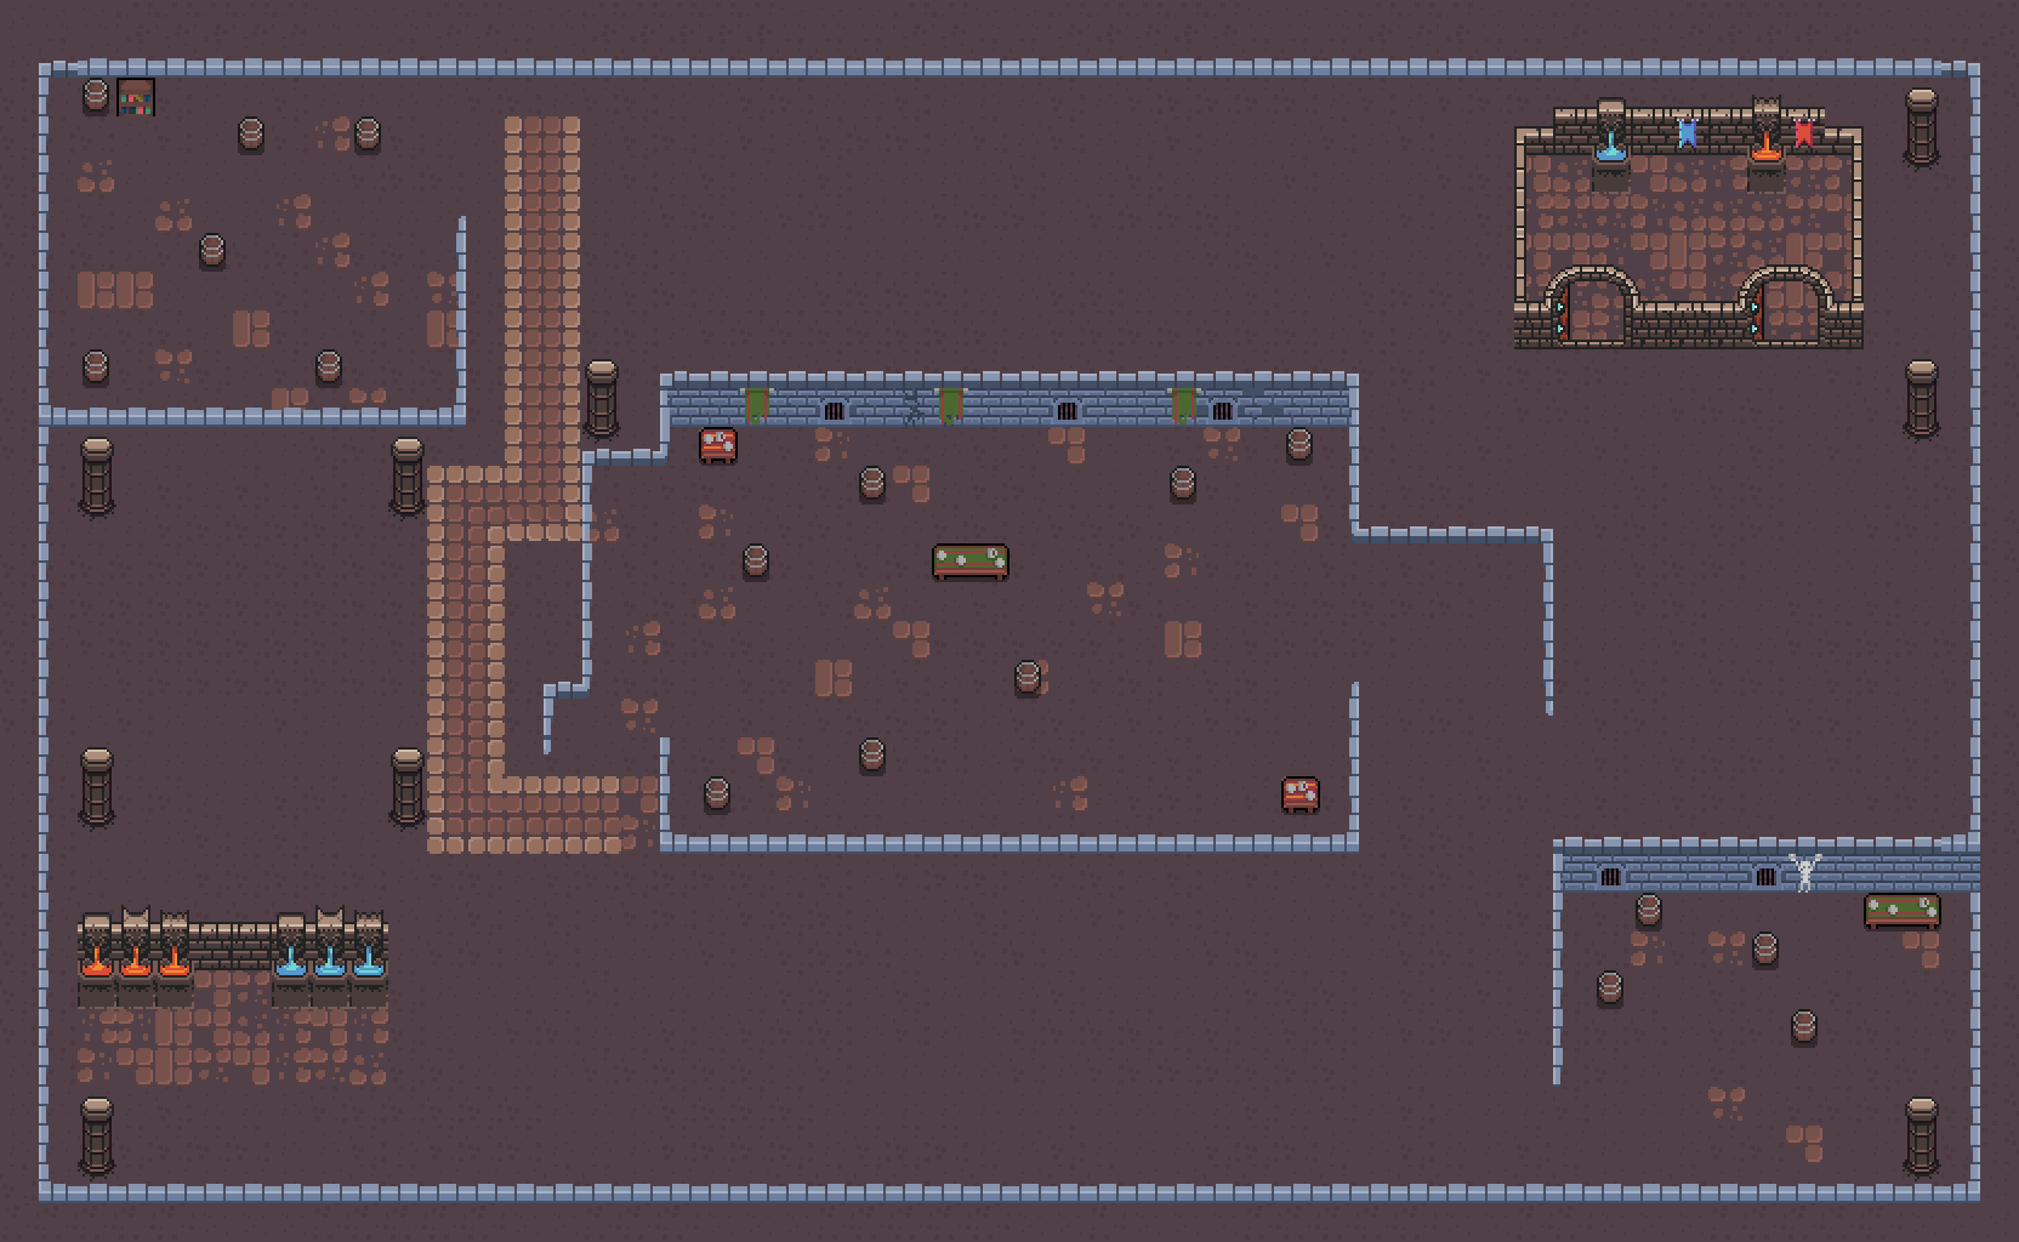
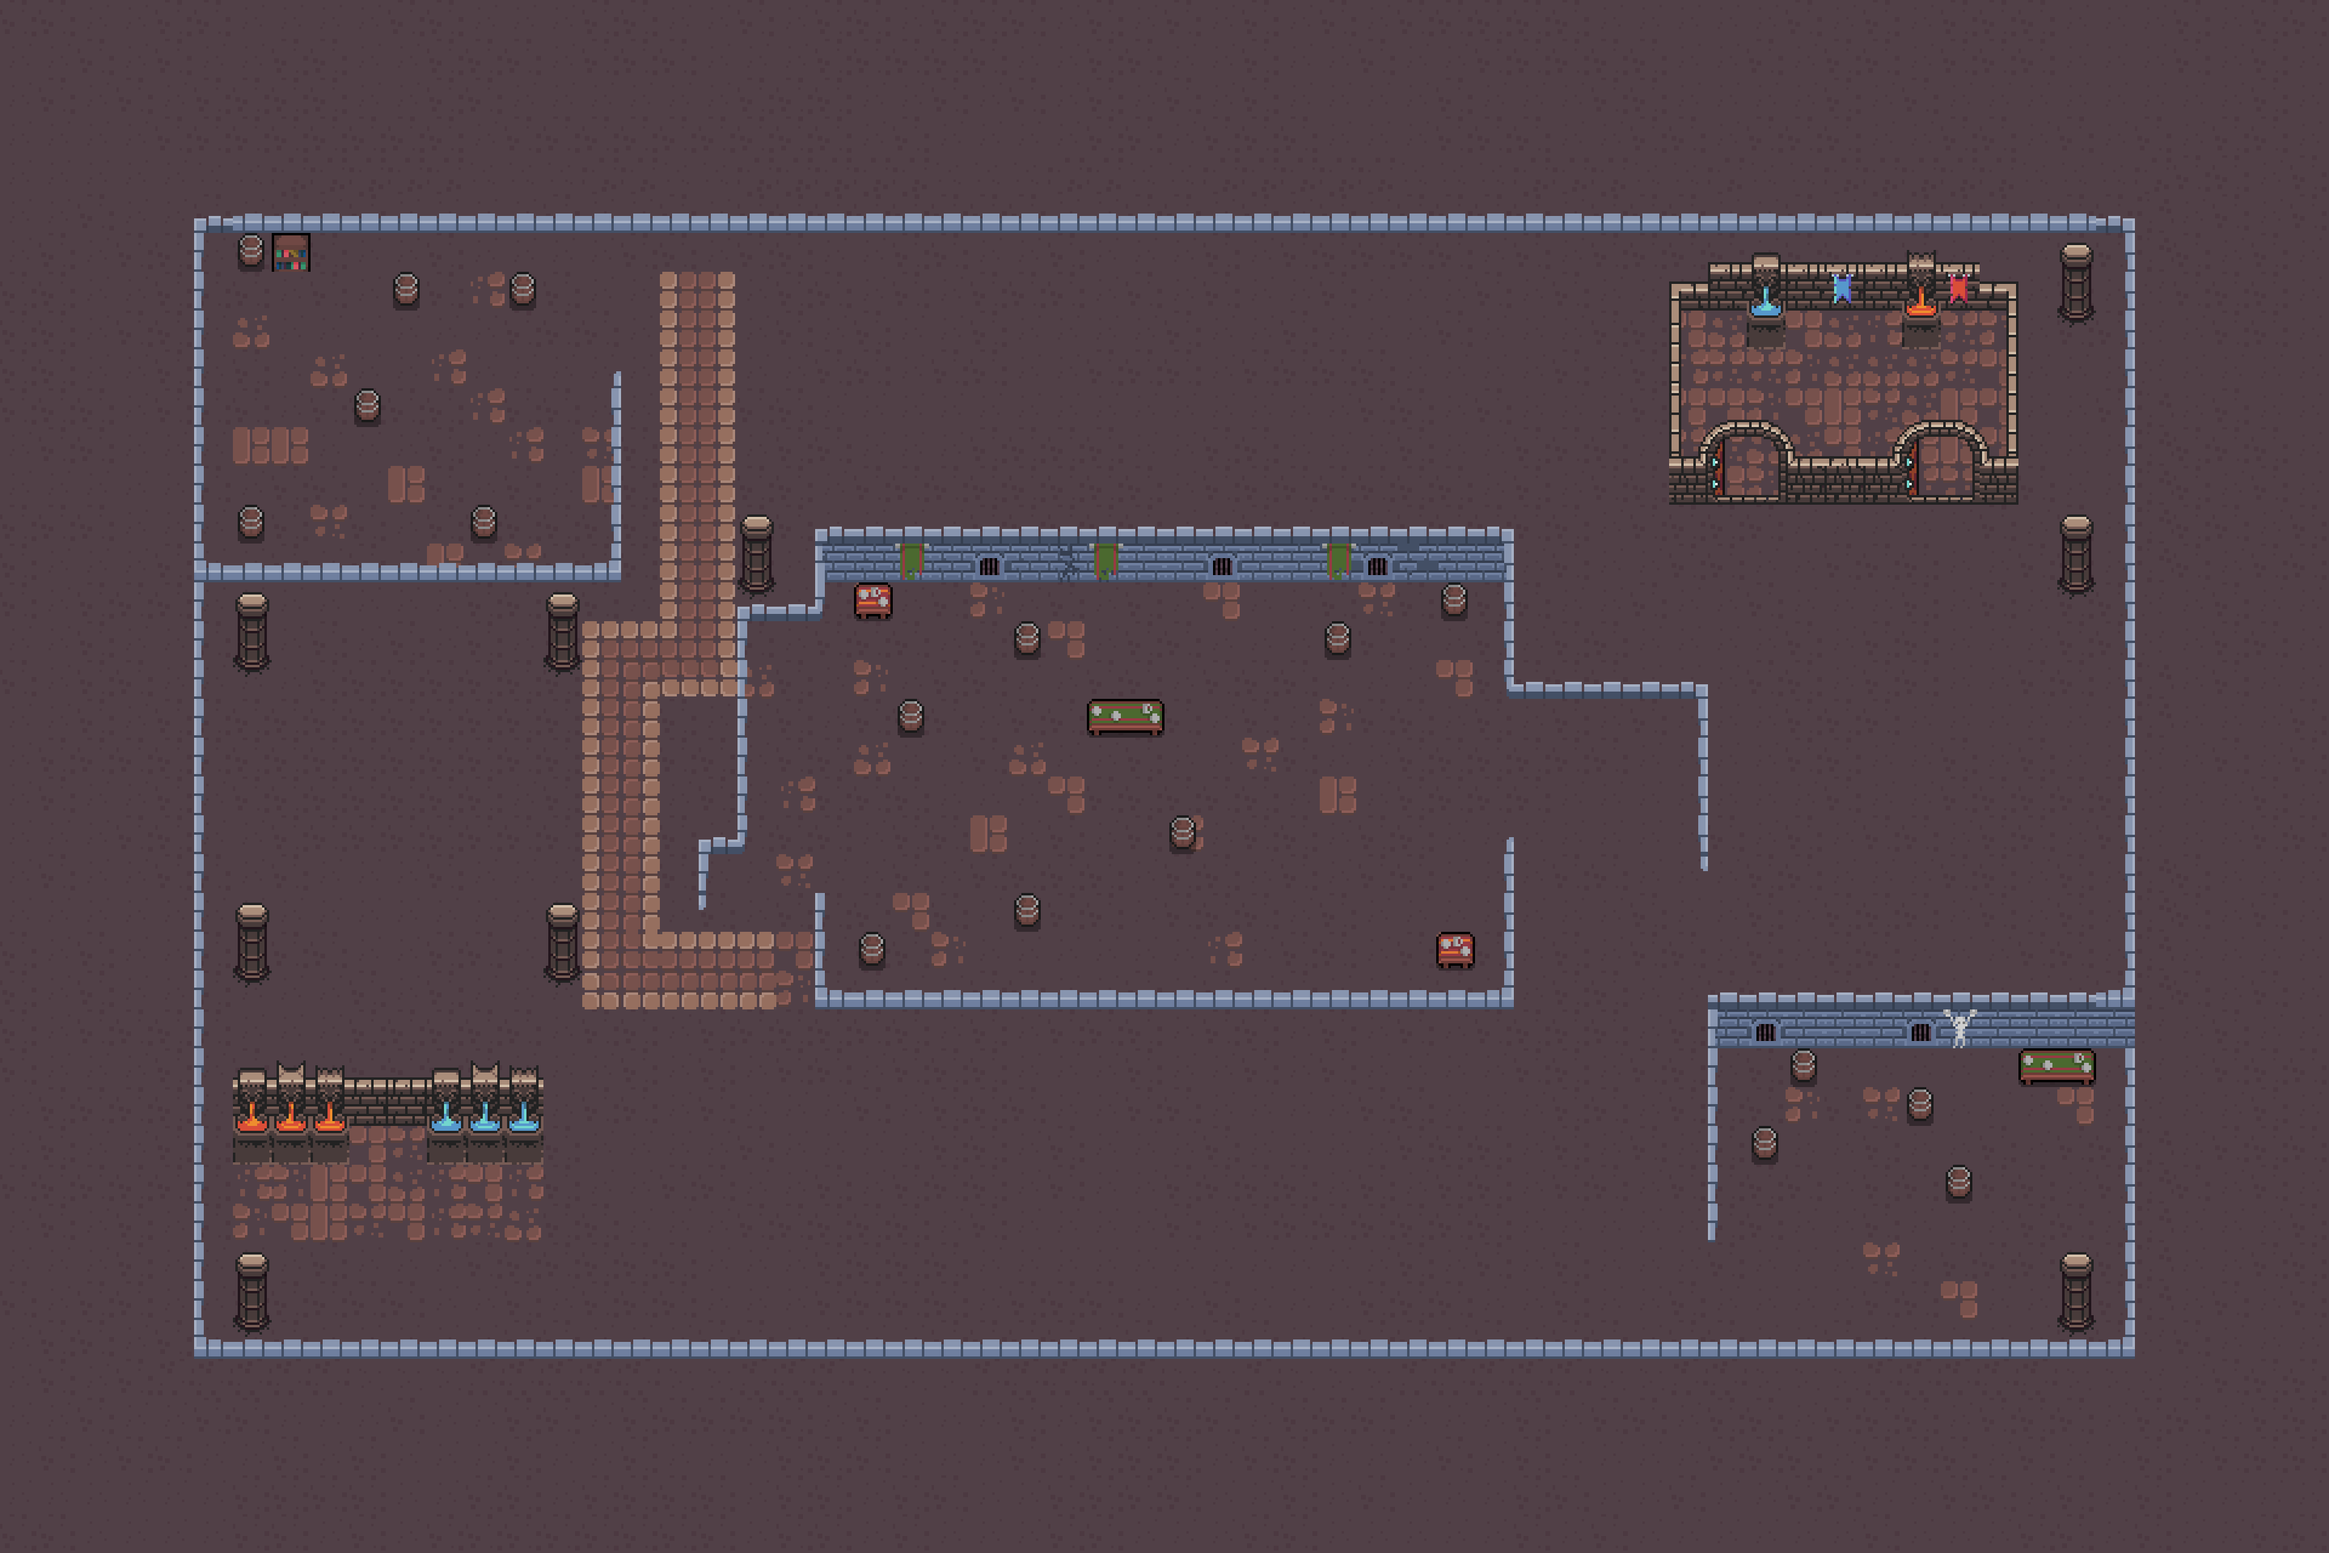
Change map size

diff --git a/collisions.js b/collisions.js
@@ -1,32 +1,40 @@
-const collisions = [0, 0, 0, 0, 0, 0, 0, 0, 0, 0, 0, 0, 0, 0, 0, 0, 0, 0, 0, 0, 0, 0, 0, 0, 0, 0, 0, 0, 0, 0, 0, 0, 0, 0, 0, 0, 0, 0, 0, 0, 0, 0, 0, 0, 0, 0, 0, 0, 0, 0, 0, 0,
-            0, 1097, 1097, 1097, 1097, 1097, 1097, 1097, 1097, 1097, 1097, 1097, 1097, 1097, 1097, 1097, 1097, 1097, 1097, 1097, 1097, 1097, 1097, 1097, 1097, 1097, 1097, 1097, 1097, 1097, 1097, 1097, 1097, 1097, 1097, 1097, 1097, 1097, 1097, 1097, 1097, 1097, 1097, 1097, 1097, 1097, 1097, 1097, 1097, 1097, 1097, 0,
-            0, 1097, 1097, 1097, 0, 0, 0, 0, 0, 0, 0, 0, 0, 0, 0, 0, 0, 0, 0, 0, 0, 0, 0, 0, 0, 0, 0, 0, 0, 0, 0, 0, 0, 0, 0, 0, 0, 0, 0, 0, 0, 0, 0, 0, 0, 0, 0, 0, 0, 0, 1097, 0,
-            0, 1097, 0, 0, 0, 0, 1097, 0, 0, 1097, 0, 0, 0, 0, 0, 0, 0, 0, 0, 0, 0, 0, 0, 0, 0, 0, 0, 0, 0, 0, 0, 0, 0, 0, 0, 0, 0, 0, 0, 1097, 1097, 1097, 1097, 1097, 1097, 1097, 1097, 1097, 0, 1097, 1097, 0,
-            0, 1097, 0, 0, 0, 0, 0, 0, 0, 0, 0, 0, 0, 0, 0, 0, 0, 0, 0, 0, 0, 0, 0, 0, 0, 0, 0, 0, 0, 0, 0, 0, 0, 0, 0, 0, 0, 0, 0, 1097, 0, 1097, 0, 0, 0, 1097, 0, 1097, 0, 1097, 1097, 0,
-            0, 1097, 0, 0, 0, 0, 0, 0, 0, 0, 0, 1097, 0, 0, 0, 0, 0, 0, 0, 0, 0, 0, 0, 0, 0, 0, 0, 0, 0, 0, 0, 0, 0, 0, 0, 0, 0, 0, 0, 1097, 0, 0, 0, 0, 0, 0, 0, 1097, 0, 0, 1097, 0,
-            0, 1097, 0, 0, 0, 1097, 0, 0, 0, 0, 0, 1097, 0, 0, 0, 0, 0, 0, 0, 0, 0, 0, 0, 0, 0, 0, 0, 0, 0, 0, 0, 0, 0, 0, 0, 0, 0, 0, 0, 1097, 0, 0, 0, 0, 0, 0, 0, 1097, 0, 0, 1097, 0,
-            0, 1097, 0, 0, 0, 0, 0, 0, 0, 0, 0, 1097, 0, 0, 0, 0, 0, 0, 0, 0, 0, 0, 0, 0, 0, 0, 0, 0, 0, 0, 0, 0, 0, 0, 0, 0, 0, 0, 0, 1097, 0, 0, 0, 0, 0, 0, 0, 1097, 0, 0, 1097, 0,
-            0, 1097, 0, 0, 0, 0, 0, 0, 0, 0, 0, 1097, 0, 0, 0, 0, 0, 0, 0, 0, 0, 0, 0, 0, 0, 0, 0, 0, 0, 0, 0, 0, 0, 0, 0, 0, 0, 0, 0, 1097, 0, 0, 1097, 1097, 1097, 0, 0, 1097, 0, 0, 1097, 0,
-            0, 1097, 1097, 0, 0, 0, 0, 0, 1097, 0, 0, 1097, 0, 0, 0, 0, 0, 0, 0, 0, 0, 0, 0, 0, 0, 0, 0, 0, 0, 0, 0, 0, 0, 0, 0, 0, 0, 0, 0, 0, 0, 0, 0, 0, 0, 0, 0, 0, 0, 0, 1097, 0,
-            0, 1097, 1097, 1097, 1097, 1097, 1097, 1097, 1097, 1097, 1097, 1097, 0, 0, 0, 1097, 0, 1097, 1097, 1097, 1097, 1097, 1097, 1097, 1097, 1097, 1097, 1097, 1097, 1097, 1097, 1097, 1097, 1097, 1097, 0, 0, 0, 0, 0, 0, 0, 0, 0, 0, 0, 0, 0, 0, 1097, 1097, 0,
-            0, 1097, 0, 0, 0, 0, 0, 0, 0, 0, 0, 0, 0, 0, 0, 1097, 1097, 1097, 1097, 0, 0, 0, 0, 0, 0, 0, 0, 0, 0, 0, 0, 0, 0, 1097, 1097, 0, 0, 0, 0, 0, 0, 0, 0, 0, 0, 0, 0, 0, 0, 1097, 1097, 0,
-            0, 1097, 1097, 0, 0, 0, 0, 0, 0, 0, 1097, 0, 0, 0, 0, 1097, 0, 0, 0, 0, 0, 0, 1097, 0, 0, 0, 0, 0, 0, 0, 1097, 0, 0, 0, 1097, 0, 0, 0, 0, 0, 0, 0, 0, 0, 0, 0, 0, 0, 0, 0, 1097, 0,
-            0, 1097, 1097, 0, 0, 0, 0, 0, 0, 0, 1097, 0, 0, 0, 0, 1097, 0, 0, 0, 0, 0, 0, 0, 0, 0, 0, 0, 0, 0, 0, 0, 0, 0, 0, 1097, 1097, 1097, 1097, 1097, 1097, 0, 0, 0, 0, 0, 0, 0, 0, 0, 0, 1097, 0,
-            0, 1097, 0, 0, 0, 0, 0, 0, 0, 0, 0, 0, 0, 0, 0, 1097, 0, 0, 0, 1097, 0, 0, 0, 0, 1097, 1097, 0, 0, 0, 0, 0, 0, 0, 0, 0, 0, 0, 0, 0, 1097, 0, 0, 0, 0, 0, 0, 0, 0, 0, 0, 1097, 0,
-            0, 1097, 0, 0, 0, 0, 0, 0, 0, 0, 0, 0, 0, 0, 0, 1097, 0, 0, 0, 0, 0, 0, 0, 0, 0, 0, 0, 0, 0, 0, 0, 0, 0, 0, 0, 0, 0, 0, 0, 1097, 0, 0, 0, 0, 0, 0, 0, 0, 0, 0, 1097, 0,
-            0, 1097, 0, 0, 0, 0, 0, 0, 0, 0, 0, 0, 0, 0, 0, 1097, 0, 0, 0, 0, 0, 0, 0, 0, 0, 0, 0, 0, 0, 0, 0, 0, 0, 0, 0, 0, 0, 0, 0, 1097, 0, 0, 0, 0, 0, 0, 0, 0, 0, 0, 1097, 0,
-            0, 1097, 0, 0, 0, 0, 0, 0, 0, 0, 0, 0, 0, 0, 1097, 1097, 0, 0, 0, 0, 0, 0, 0, 0, 0, 0, 1097, 0, 0, 0, 0, 0, 0, 0, 1097, 0, 0, 0, 0, 1097, 0, 0, 0, 0, 0, 0, 0, 0, 0, 0, 1097, 0,
-            0, 1097, 0, 0, 0, 0, 0, 0, 0, 0, 0, 0, 0, 0, 1097, 0, 0, 0, 0, 0, 0, 0, 0, 0, 0, 0, 0, 0, 0, 0, 0, 0, 0, 0, 1097, 0, 0, 0, 0, 1097, 0, 0, 0, 0, 0, 0, 0, 0, 0, 0, 1097, 0,
-            0, 1097, 0, 0, 0, 0, 0, 0, 0, 0, 0, 0, 0, 0, 1097, 0, 0, 1097, 0, 0, 0, 0, 1097, 0, 0, 0, 0, 0, 0, 0, 0, 0, 0, 0, 1097, 0, 0, 0, 0, 0, 0, 0, 0, 0, 0, 0, 0, 0, 0, 0, 1097, 0,
-            0, 1097, 1097, 0, 0, 0, 0, 0, 0, 0, 1097, 0, 0, 0, 0, 0, 0, 1097, 1097, 0, 0, 0, 0, 0, 0, 0, 0, 0, 0, 0, 0, 0, 0, 1097, 1097, 0, 0, 0, 0, 0, 0, 0, 0, 0, 0, 0, 0, 0, 0, 0, 1097, 0,
-            0, 1097, 1097, 0, 0, 0, 0, 0, 0, 0, 1097, 0, 0, 0, 0, 0, 0, 1097, 1097, 1097, 1097, 1097, 1097, 1097, 1097, 1097, 1097, 1097, 1097, 1097, 1097, 1097, 1097, 1097, 1097, 0, 0, 0, 0, 0, 0, 0, 0, 0, 0, 0, 0, 0, 0, 0, 1097, 0,
-            0, 1097, 0, 0, 0, 0, 0, 0, 0, 0, 0, 0, 0, 0, 0, 0, 0, 0, 0, 0, 0, 0, 0, 0, 0, 0, 0, 0, 0, 0, 0, 0, 0, 0, 0, 0, 0, 0, 0, 0, 1097, 1097, 1097, 1097, 1097, 1097, 1097, 1097, 1097, 1097, 1097, 0,
-            0, 1097, 0, 0, 0, 0, 0, 0, 0, 0, 0, 0, 0, 0, 0, 0, 0, 0, 0, 0, 0, 0, 0, 0, 0, 0, 0, 0, 0, 0, 0, 0, 0, 0, 0, 0, 0, 0, 0, 0, 1097, 0, 1097, 0, 0, 0, 0, 0, 1097, 1097, 1097, 0,
-            0, 1097, 1097, 1097, 1097, 1097, 1097, 1097, 1097, 1097, 0, 0, 0, 0, 0, 0, 0, 0, 0, 0, 0, 0, 0, 0, 0, 0, 0, 0, 0, 0, 0, 0, 0, 0, 0, 0, 0, 0, 0, 0, 1097, 0, 0, 0, 0, 1097, 0, 0, 0, 0, 1097, 0,
-            0, 1097, 1097, 1097, 1097, 0, 0, 1097, 1097, 1097, 0, 0, 0, 0, 0, 0, 0, 0, 0, 0, 0, 0, 0, 0, 0, 0, 0, 0, 0, 0, 0, 0, 0, 0, 0, 0, 0, 0, 0, 0, 1097, 1097, 0, 0, 0, 0, 0, 0, 0, 0, 1097, 0,
-            0, 1097, 0, 0, 0, 0, 0, 0, 0, 0, 0, 0, 0, 0, 0, 0, 0, 0, 0, 0, 0, 0, 0, 0, 0, 0, 0, 0, 0, 0, 0, 0, 0, 0, 0, 0, 0, 0, 0, 0, 1097, 0, 0, 0, 0, 0, 1097, 0, 0, 0, 1097, 0,
-            0, 1097, 0, 0, 0, 0, 0, 0, 0, 0, 0, 0, 0, 0, 0, 0, 0, 0, 0, 0, 0, 0, 0, 0, 0, 0, 0, 0, 0, 0, 0, 0, 0, 0, 0, 0, 0, 0, 0, 0, 1097, 0, 0, 0, 0, 0, 0, 0, 0, 0, 1097, 0,
-            0, 1097, 0, 0, 0, 0, 0, 0, 0, 0, 0, 0, 0, 0, 0, 0, 0, 0, 0, 0, 0, 0, 0, 0, 0, 0, 0, 0, 0, 0, 0, 0, 0, 0, 0, 0, 0, 0, 0, 0, 0, 0, 0, 0, 0, 0, 0, 0, 0, 0, 1097, 0,
-            0, 1097, 1097, 0, 0, 0, 0, 0, 0, 0, 0, 0, 0, 0, 0, 0, 0, 0, 0, 0, 0, 0, 0, 0, 0, 0, 0, 0, 0, 0, 0, 0, 0, 0, 0, 0, 0, 0, 0, 0, 0, 0, 0, 0, 0, 0, 0, 0, 0, 1097, 1097, 0,
-            0, 1097, 1097, 1097, 1097, 1097, 1097, 1097, 1097, 1097, 1097, 1097, 1097, 1097, 1097, 1097, 1097, 1097, 1097, 1097, 1097, 1097, 1097, 1097, 1097, 1097, 1097, 1097, 1097, 1097, 1097, 1097, 1097, 1097, 1097, 1097, 1097, 1097, 1097, 1097, 1097, 1097, 1097, 1097, 1097, 1097, 1097, 1097, 1097, 1097, 1097, 0,
-            0, 0, 0, 0, 0, 0, 0, 0, 0, 0, 0, 0, 0, 0, 0, 0, 0, 0, 0, 0, 0, 0, 0, 0, 0, 0, 0, 0, 0, 0, 0, 0, 0, 0, 0, 0, 0, 0, 0, 0, 0, 0, 0, 0, 0, 0, 0, 0, 0, 0, 0, 0]
+const collisions = [0, 0, 0, 0, 0, 0, 0, 0, 0, 0, 0, 0, 0, 0, 0, 0, 0, 0, 0, 0, 0, 0, 0, 0, 0, 0, 0, 0, 0, 0, 0, 0, 0, 0, 0, 0, 0, 0, 0, 0, 0, 0, 0, 0, 0, 0, 0, 0, 0, 0, 0, 0, 0, 0, 0, 0, 0, 0, 0, 0,
+    0, 0, 0, 0, 0, 0, 0, 0, 0, 0, 0, 0, 0, 0, 0, 0, 0, 0, 0, 0, 0, 0, 0, 0, 0, 0, 0, 0, 0, 0, 0, 0, 0, 0, 0, 0, 0, 0, 0, 0, 0, 0, 0, 0, 0, 0, 0, 0, 0, 0, 0, 0, 0, 0, 0, 0, 0, 0, 0, 0,
+    0, 0, 0, 0, 0, 0, 0, 0, 0, 0, 0, 0, 0, 0, 0, 0, 0, 0, 0, 0, 0, 0, 0, 0, 0, 0, 0, 0, 0, 0, 0, 0, 0, 0, 0, 0, 0, 0, 0, 0, 0, 0, 0, 0, 0, 0, 0, 0, 0, 0, 0, 0, 0, 0, 0, 0, 0, 0, 0, 0,
+    0, 0, 0, 0, 0, 0, 0, 0, 0, 0, 0, 0, 0, 0, 0, 0, 0, 0, 0, 0, 0, 0, 0, 0, 0, 0, 0, 0, 0, 0, 0, 0, 0, 0, 0, 0, 0, 0, 0, 0, 0, 0, 0, 0, 0, 0, 0, 0, 0, 0, 0, 0, 0, 0, 0, 0, 0, 0, 0, 0,
+    0, 0, 0, 0, 0, 0, 0, 0, 0, 0, 0, 0, 0, 0, 0, 0, 0, 0, 0, 0, 0, 0, 0, 0, 0, 0, 0, 0, 0, 0, 0, 0, 0, 0, 0, 0, 0, 0, 0, 0, 0, 0, 0, 0, 0, 0, 0, 0, 0, 0, 0, 0, 0, 0, 0, 0, 0, 0, 0, 0,
+    0, 0, 0, 0, 0, 1097, 1097, 1097, 1097, 1097, 1097, 1097, 1097, 1097, 1097, 1097, 1097, 1097, 1097, 1097, 1097, 1097, 1097, 1097, 1097, 1097, 1097, 1097, 1097, 1097, 1097, 1097, 1097, 1097, 1097, 1097, 1097, 1097, 1097, 1097, 1097, 1097, 1097, 1097, 1097, 1097, 1097, 1097, 1097, 1097, 1097, 1097, 1097, 1097, 1097, 0, 0, 0, 0, 0,
+    0, 0, 0, 0, 0, 1097, 1097, 1097, 0, 0, 0, 0, 0, 0, 0, 0, 0, 0, 0, 0, 0, 0, 0, 0, 0, 0, 0, 0, 0, 0, 0, 0, 0, 0, 0, 0, 0, 0, 0, 0, 0, 0, 0, 0, 0, 0, 0, 0, 0, 0, 0, 0, 0, 0, 1097, 0, 0, 0, 0, 0,
+    0, 0, 0, 0, 0, 1097, 0, 0, 0, 0, 1097, 0, 0, 1097, 0, 0, 0, 0, 0, 0, 0, 0, 0, 0, 0, 0, 0, 0, 0, 0, 0, 0, 0, 0, 0, 0, 0, 0, 0, 0, 0, 0, 0, 1097, 1097, 1097, 1097, 1097, 1097, 1097, 1097, 1097, 0, 1097, 1097, 0, 0, 0, 0, 0,
+    0, 0, 0, 0, 0, 1097, 0, 0, 0, 0, 0, 0, 0, 0, 0, 0, 0, 0, 0, 0, 0, 0, 0, 0, 0, 0, 0, 0, 0, 0, 0, 0, 0, 0, 0, 0, 0, 0, 0, 0, 0, 0, 0, 1097, 0, 1097, 0, 0, 0, 1097, 0, 1097, 0, 1097, 1097, 0, 0, 0, 0, 0,
+    0, 0, 0, 0, 0, 1097, 0, 0, 0, 0, 0, 0, 0, 0, 0, 1097, 0, 0, 0, 0, 0, 0, 0, 0, 0, 0, 0, 0, 0, 0, 0, 0, 0, 0, 0, 0, 0, 0, 0, 0, 0, 0, 0, 1097, 0, 0, 0, 0, 0, 0, 0, 1097, 0, 0, 1097, 0, 0, 0, 0, 0,
+    0, 0, 0, 0, 0, 1097, 0, 0, 0, 1097, 0, 0, 0, 0, 0, 1097, 0, 0, 0, 0, 0, 0, 0, 0, 0, 0, 0, 0, 0, 0, 0, 0, 0, 0, 0, 0, 0, 0, 0, 0, 0, 0, 0, 1097, 0, 0, 0, 0, 0, 0, 0, 1097, 0, 0, 1097, 0, 0, 0, 0, 0,
+    0, 0, 0, 0, 0, 1097, 0, 0, 0, 0, 0, 0, 0, 0, 0, 1097, 0, 0, 0, 0, 0, 0, 0, 0, 0, 0, 0, 0, 0, 0, 0, 0, 0, 0, 0, 0, 0, 0, 0, 0, 0, 0, 0, 1097, 0, 0, 0, 0, 0, 0, 0, 1097, 0, 0, 1097, 0, 0, 0, 0, 0,
+    0, 0, 0, 0, 0, 1097, 0, 0, 0, 0, 0, 0, 0, 0, 0, 1097, 0, 0, 0, 0, 0, 0, 0, 0, 0, 0, 0, 0, 0, 0, 0, 0, 0, 0, 0, 0, 0, 0, 0, 0, 0, 0, 0, 1097, 0, 0, 1097, 1097, 1097, 0, 0, 1097, 0, 0, 1097, 0, 0, 0, 0, 0,
+    0, 0, 0, 0, 0, 1097, 1097, 0, 0, 0, 0, 0, 1097, 0, 0, 1097, 0, 0, 0, 0, 0, 0, 0, 0, 0, 0, 0, 0, 0, 0, 0, 0, 0, 0, 0, 0, 0, 0, 0, 0, 0, 0, 0, 0, 0, 0, 0, 0, 0, 0, 0, 0, 0, 0, 1097, 0, 0, 0, 0, 0,
+    0, 0, 0, 0, 0, 1097, 1097, 1097, 1097, 1097, 1097, 1097, 1097, 1097, 1097, 1097, 0, 0, 0, 1097, 0, 1097, 1097, 1097, 1097, 1097, 1097, 1097, 1097, 1097, 1097, 1097, 1097, 1097, 1097, 1097, 1097, 1097, 1097, 0, 0, 0, 0, 0, 0, 0, 0, 0, 0, 0, 0, 0, 0, 1097, 1097, 0, 0, 0, 0, 0,
+    0, 0, 0, 0, 0, 1097, 0, 0, 0, 0, 0, 0, 0, 0, 0, 0, 0, 0, 0, 1097, 1097, 1097, 1097, 0, 0, 0, 0, 0, 0, 0, 0, 0, 0, 0, 0, 0, 0, 1097, 1097, 0, 0, 0, 0, 0, 0, 0, 0, 0, 0, 0, 0, 0, 0, 1097, 1097, 0, 0, 0, 0, 0,
+    0, 0, 0, 0, 0, 1097, 1097, 0, 0, 0, 0, 0, 0, 0, 1097, 0, 0, 0, 0, 1097, 0, 0, 0, 0, 0, 0, 1097, 0, 0, 0, 0, 0, 0, 0, 1097, 0, 0, 0, 1097, 0, 0, 0, 0, 0, 0, 0, 0, 0, 0, 0, 0, 0, 0, 0, 1097, 0, 0, 0, 0, 0,
+    0, 0, 0, 0, 0, 1097, 1097, 0, 0, 0, 0, 0, 0, 0, 1097, 0, 0, 0, 0, 1097, 0, 0, 0, 0, 0, 0, 0, 0, 0, 0, 0, 0, 0, 0, 0, 0, 0, 0, 1097, 1097, 1097, 1097, 1097, 1097, 0, 0, 0, 0, 0, 0, 0, 0, 0, 0, 1097, 0, 0, 0, 0, 0,
+    0, 0, 0, 0, 0, 1097, 0, 0, 0, 0, 0, 0, 0, 0, 0, 0, 0, 0, 0, 1097, 0, 0, 0, 1097, 0, 0, 0, 0, 1097, 1097, 0, 0, 0, 0, 0, 0, 0, 0, 0, 0, 0, 0, 0, 1097, 0, 0, 0, 0, 0, 0, 0, 0, 0, 0, 1097, 0, 0, 0, 0, 0,
+    0, 0, 0, 0, 0, 1097, 0, 0, 0, 0, 0, 0, 0, 0, 0, 0, 0, 0, 0, 1097, 0, 0, 0, 0, 0, 0, 0, 0, 0, 0, 0, 0, 0, 0, 0, 0, 0, 0, 0, 0, 0, 0, 0, 1097, 0, 0, 0, 0, 0, 0, 0, 0, 0, 0, 1097, 0, 0, 0, 0, 0,
+    0, 0, 0, 0, 0, 1097, 0, 0, 0, 0, 0, 0, 0, 0, 0, 0, 0, 0, 0, 1097, 0, 0, 0, 0, 0, 0, 0, 0, 0, 0, 0, 0, 0, 0, 0, 0, 0, 0, 0, 0, 0, 0, 0, 1097, 0, 0, 0, 0, 0, 0, 0, 0, 0, 0, 1097, 0, 0, 0, 0, 0,
+    0, 0, 0, 0, 0, 1097, 0, 0, 0, 0, 0, 0, 0, 0, 0, 0, 0, 0, 1097, 1097, 0, 0, 0, 0, 0, 0, 0, 0, 0, 0, 1097, 0, 0, 0, 0, 0, 0, 0, 1097, 0, 0, 0, 0, 1097, 0, 0, 0, 0, 0, 0, 0, 0, 0, 0, 1097, 0, 0, 0, 0, 0,
+    0, 0, 0, 0, 0, 1097, 0, 0, 0, 0, 0, 0, 0, 0, 0, 0, 0, 0, 1097, 0, 0, 0, 0, 0, 0, 0, 0, 0, 0, 0, 0, 0, 0, 0, 0, 0, 0, 0, 1097, 0, 0, 0, 0, 1097, 0, 0, 0, 0, 0, 0, 0, 0, 0, 0, 1097, 0, 0, 0, 0, 0,
+    0, 0, 0, 0, 0, 1097, 0, 0, 0, 0, 0, 0, 0, 0, 0, 0, 0, 0, 1097, 0, 0, 1097, 0, 0, 0, 0, 1097, 0, 0, 0, 0, 0, 0, 0, 0, 0, 0, 0, 1097, 0, 0, 0, 0, 0, 0, 0, 0, 0, 0, 0, 0, 0, 0, 0, 1097, 0, 0, 0, 0, 0,
+    0, 0, 0, 0, 0, 1097, 1097, 0, 0, 0, 0, 0, 0, 0, 1097, 0, 0, 0, 0, 0, 0, 1097, 1097, 0, 0, 0, 0, 0, 0, 0, 0, 0, 0, 0, 0, 0, 0, 1097, 1097, 0, 0, 0, 0, 0, 0, 0, 0, 0, 0, 0, 0, 0, 0, 0, 1097, 0, 0, 0, 0, 0,
+    0, 0, 0, 0, 0, 1097, 1097, 0, 0, 0, 0, 0, 0, 0, 1097, 0, 0, 0, 0, 0, 0, 1097, 1097, 1097, 1097, 1097, 1097, 1097, 1097, 1097, 1097, 1097, 1097, 1097, 1097, 1097, 1097, 1097, 1097, 0, 0, 0, 0, 0, 0, 0, 0, 0, 0, 0, 0, 0, 0, 0, 1097, 0, 0, 0, 0, 0,
+    0, 0, 0, 0, 0, 1097, 0, 0, 0, 0, 0, 0, 0, 0, 0, 0, 0, 0, 0, 0, 0, 0, 0, 0, 0, 0, 0, 0, 0, 0, 0, 0, 0, 0, 0, 0, 0, 0, 0, 0, 0, 0, 0, 0, 1097, 1097, 1097, 1097, 1097, 1097, 1097, 1097, 1097, 1097, 1097, 0, 0, 0, 0, 0,
+    0, 0, 0, 0, 0, 1097, 0, 0, 0, 0, 0, 0, 0, 0, 0, 0, 0, 0, 0, 0, 0, 0, 0, 0, 0, 0, 0, 0, 0, 0, 0, 0, 0, 0, 0, 0, 0, 0, 0, 0, 0, 0, 0, 0, 1097, 0, 1097, 0, 0, 0, 0, 0, 1097, 1097, 1097, 0, 0, 0, 0, 0,
+    0, 0, 0, 0, 0, 1097, 1097, 1097, 1097, 1097, 1097, 1097, 1097, 1097, 0, 0, 0, 0, 0, 0, 0, 0, 0, 0, 0, 0, 0, 0, 0, 0, 0, 0, 0, 0, 0, 0, 0, 0, 0, 0, 0, 0, 0, 0, 1097, 0, 0, 0, 0, 1097, 0, 0, 0, 0, 1097, 0, 0, 0, 0, 0,
+    0, 0, 0, 0, 0, 1097, 1097, 1097, 1097, 0, 0, 1097, 1097, 1097, 0, 0, 0, 0, 0, 0, 0, 0, 0, 0, 0, 0, 0, 0, 0, 0, 0, 0, 0, 0, 0, 0, 0, 0, 0, 0, 0, 0, 0, 0, 1097, 1097, 0, 0, 0, 0, 0, 0, 0, 0, 1097, 0, 0, 0, 0, 0,
+    0, 0, 0, 0, 0, 1097, 0, 0, 0, 0, 0, 0, 0, 0, 0, 0, 0, 0, 0, 0, 0, 0, 0, 0, 0, 0, 0, 0, 0, 0, 0, 0, 0, 0, 0, 0, 0, 0, 0, 0, 0, 0, 0, 0, 1097, 0, 0, 0, 0, 0, 1097, 0, 0, 0, 1097, 0, 0, 0, 0, 0,
+    0, 0, 0, 0, 0, 1097, 0, 0, 0, 0, 0, 0, 0, 0, 0, 0, 0, 0, 0, 0, 0, 0, 0, 0, 0, 0, 0, 0, 0, 0, 0, 0, 0, 0, 0, 0, 0, 0, 0, 0, 0, 0, 0, 0, 1097, 0, 0, 0, 0, 0, 0, 0, 0, 0, 1097, 0, 0, 0, 0, 0,
+    0, 0, 0, 0, 0, 1097, 0, 0, 0, 0, 0, 0, 0, 0, 0, 0, 0, 0, 0, 0, 0, 0, 0, 0, 0, 0, 0, 0, 0, 0, 0, 0, 0, 0, 0, 0, 0, 0, 0, 0, 0, 0, 0, 0, 0, 0, 0, 0, 0, 0, 0, 0, 0, 0, 1097, 0, 0, 0, 0, 0,
+    0, 0, 0, 0, 0, 1097, 1097, 0, 0, 0, 0, 0, 0, 0, 0, 0, 0, 0, 0, 0, 0, 0, 0, 0, 0, 0, 0, 0, 0, 0, 0, 0, 0, 0, 0, 0, 0, 0, 0, 0, 0, 0, 0, 0, 0, 0, 0, 0, 0, 0, 0, 0, 0, 1097, 1097, 0, 0, 0, 0, 0,
+    0, 0, 0, 0, 0, 1097, 1097, 1097, 1097, 1097, 1097, 1097, 1097, 1097, 1097, 1097, 1097, 1097, 1097, 1097, 1097, 1097, 1097, 1097, 1097, 1097, 1097, 1097, 1097, 1097, 1097, 1097, 1097, 1097, 1097, 1097, 1097, 1097, 1097, 1097, 1097, 1097, 1097, 1097, 1097, 1097, 1097, 1097, 1097, 1097, 1097, 1097, 1097, 1097, 1097, 0, 0, 0, 0, 0,
+    0, 0, 0, 0, 0, 0, 0, 0, 0, 0, 0, 0, 0, 0, 0, 0, 0, 0, 0, 0, 0, 0, 0, 0, 0, 0, 0, 0, 0, 0, 0, 0, 0, 0, 0, 0, 0, 0, 0, 0, 0, 0, 0, 0, 0, 0, 0, 0, 0, 0, 0, 0, 0, 0, 0, 0, 0, 0, 0, 0,
+    0, 0, 0, 0, 0, 0, 0, 0, 0, 0, 0, 0, 0, 0, 0, 0, 0, 0, 0, 0, 0, 0, 0, 0, 0, 0, 0, 0, 0, 0, 0, 0, 0, 0, 0, 0, 0, 0, 0, 0, 0, 0, 0, 0, 0, 0, 0, 0, 0, 0, 0, 0, 0, 0, 0, 0, 0, 0, 0, 0,
+    0, 0, 0, 0, 0, 0, 0, 0, 0, 0, 0, 0, 0, 0, 0, 0, 0, 0, 0, 0, 0, 0, 0, 0, 0, 0, 0, 0, 0, 0, 0, 0, 0, 0, 0, 0, 0, 0, 0, 0, 0, 0, 0, 0, 0, 0, 0, 0, 0, 0, 0, 0, 0, 0, 0, 0, 0, 0, 0, 0,
+    0, 0, 0, 0, 0, 0, 0, 0, 0, 0, 0, 0, 0, 0, 0, 0, 0, 0, 0, 0, 0, 0, 0, 0, 0, 0, 0, 0, 0, 0, 0, 0, 0, 0, 0, 0, 0, 0, 0, 0, 0, 0, 0, 0, 0, 0, 0, 0, 0, 0, 0, 0, 0, 0, 0, 0, 0, 0, 0, 0,
+    0, 0, 0, 0, 0, 0, 0, 0, 0, 0, 0, 0, 0, 0, 0, 0, 0, 0, 0, 0, 0, 0, 0, 0, 0, 0, 0, 0, 0, 0, 0, 0, 0, 0, 0, 0, 0, 0, 0, 0, 0, 0, 0, 0, 0, 0, 0, 0, 0, 0, 0, 0, 0, 0, 0, 0, 0, 0, 0, 0]

diff --git a/player1.js b/player1.js
@@ -358,12 +358,12 @@ slashImage.src = 'assets/swordSlash.png';
 
 
 const offset = {
-    x: -64 * 2,
-    y: -64 * 2
+    x: -64 * 4,
+    y: -64 * 4
 }
 const p1background = new Background(offset.x, offset.y, image, c1);
 // const p2background = new Background(offset.x, offset.y, image, c2);
-const player1 = new Player(100, 10, 10, 8 * 32, 6 * 32, false, c1, p1Image, 0);
+const player1 = new Player(100, 10, 10, 12 * 32, 10 * 32, false, c1, p1Image, 0);
 // const player2 = new Player(100, 10, 10, 8 * 32, 6 * 32, false, c2, p2Image);
 // const testEnemy = new Enemy(100, 10, 10, 4 * 32, 10 * 32, skeletonImage, c1);
 // const e = new Enemy(100, 10, 10, 2 * 32, 2 * 32, skeletonImage, c1);
@@ -376,8 +376,8 @@ const keysPressed = {
 };
 
 const mapCollision = [];
-for (let i = 0; i < collisions.length; i+= 52) {
-    mapCollision.push(collisions.slice(i, i+52));
+for (let i = 0; i < collisions.length; i+= 60) {
+    mapCollision.push(collisions.slice(i, i+60));
 }
 class Boundary {
     constructor(x, y, width, height) {

diff --git a/player2.js b/player2.js
@@ -8,7 +8,7 @@ const p2Image = new Image();
 p2Image.src = 'assets/hero2.png';
 
 const p2Offset = {
-    x: -64 * 40,
+    x: -64 * 44,
     y: -64 * 26
 }
 
